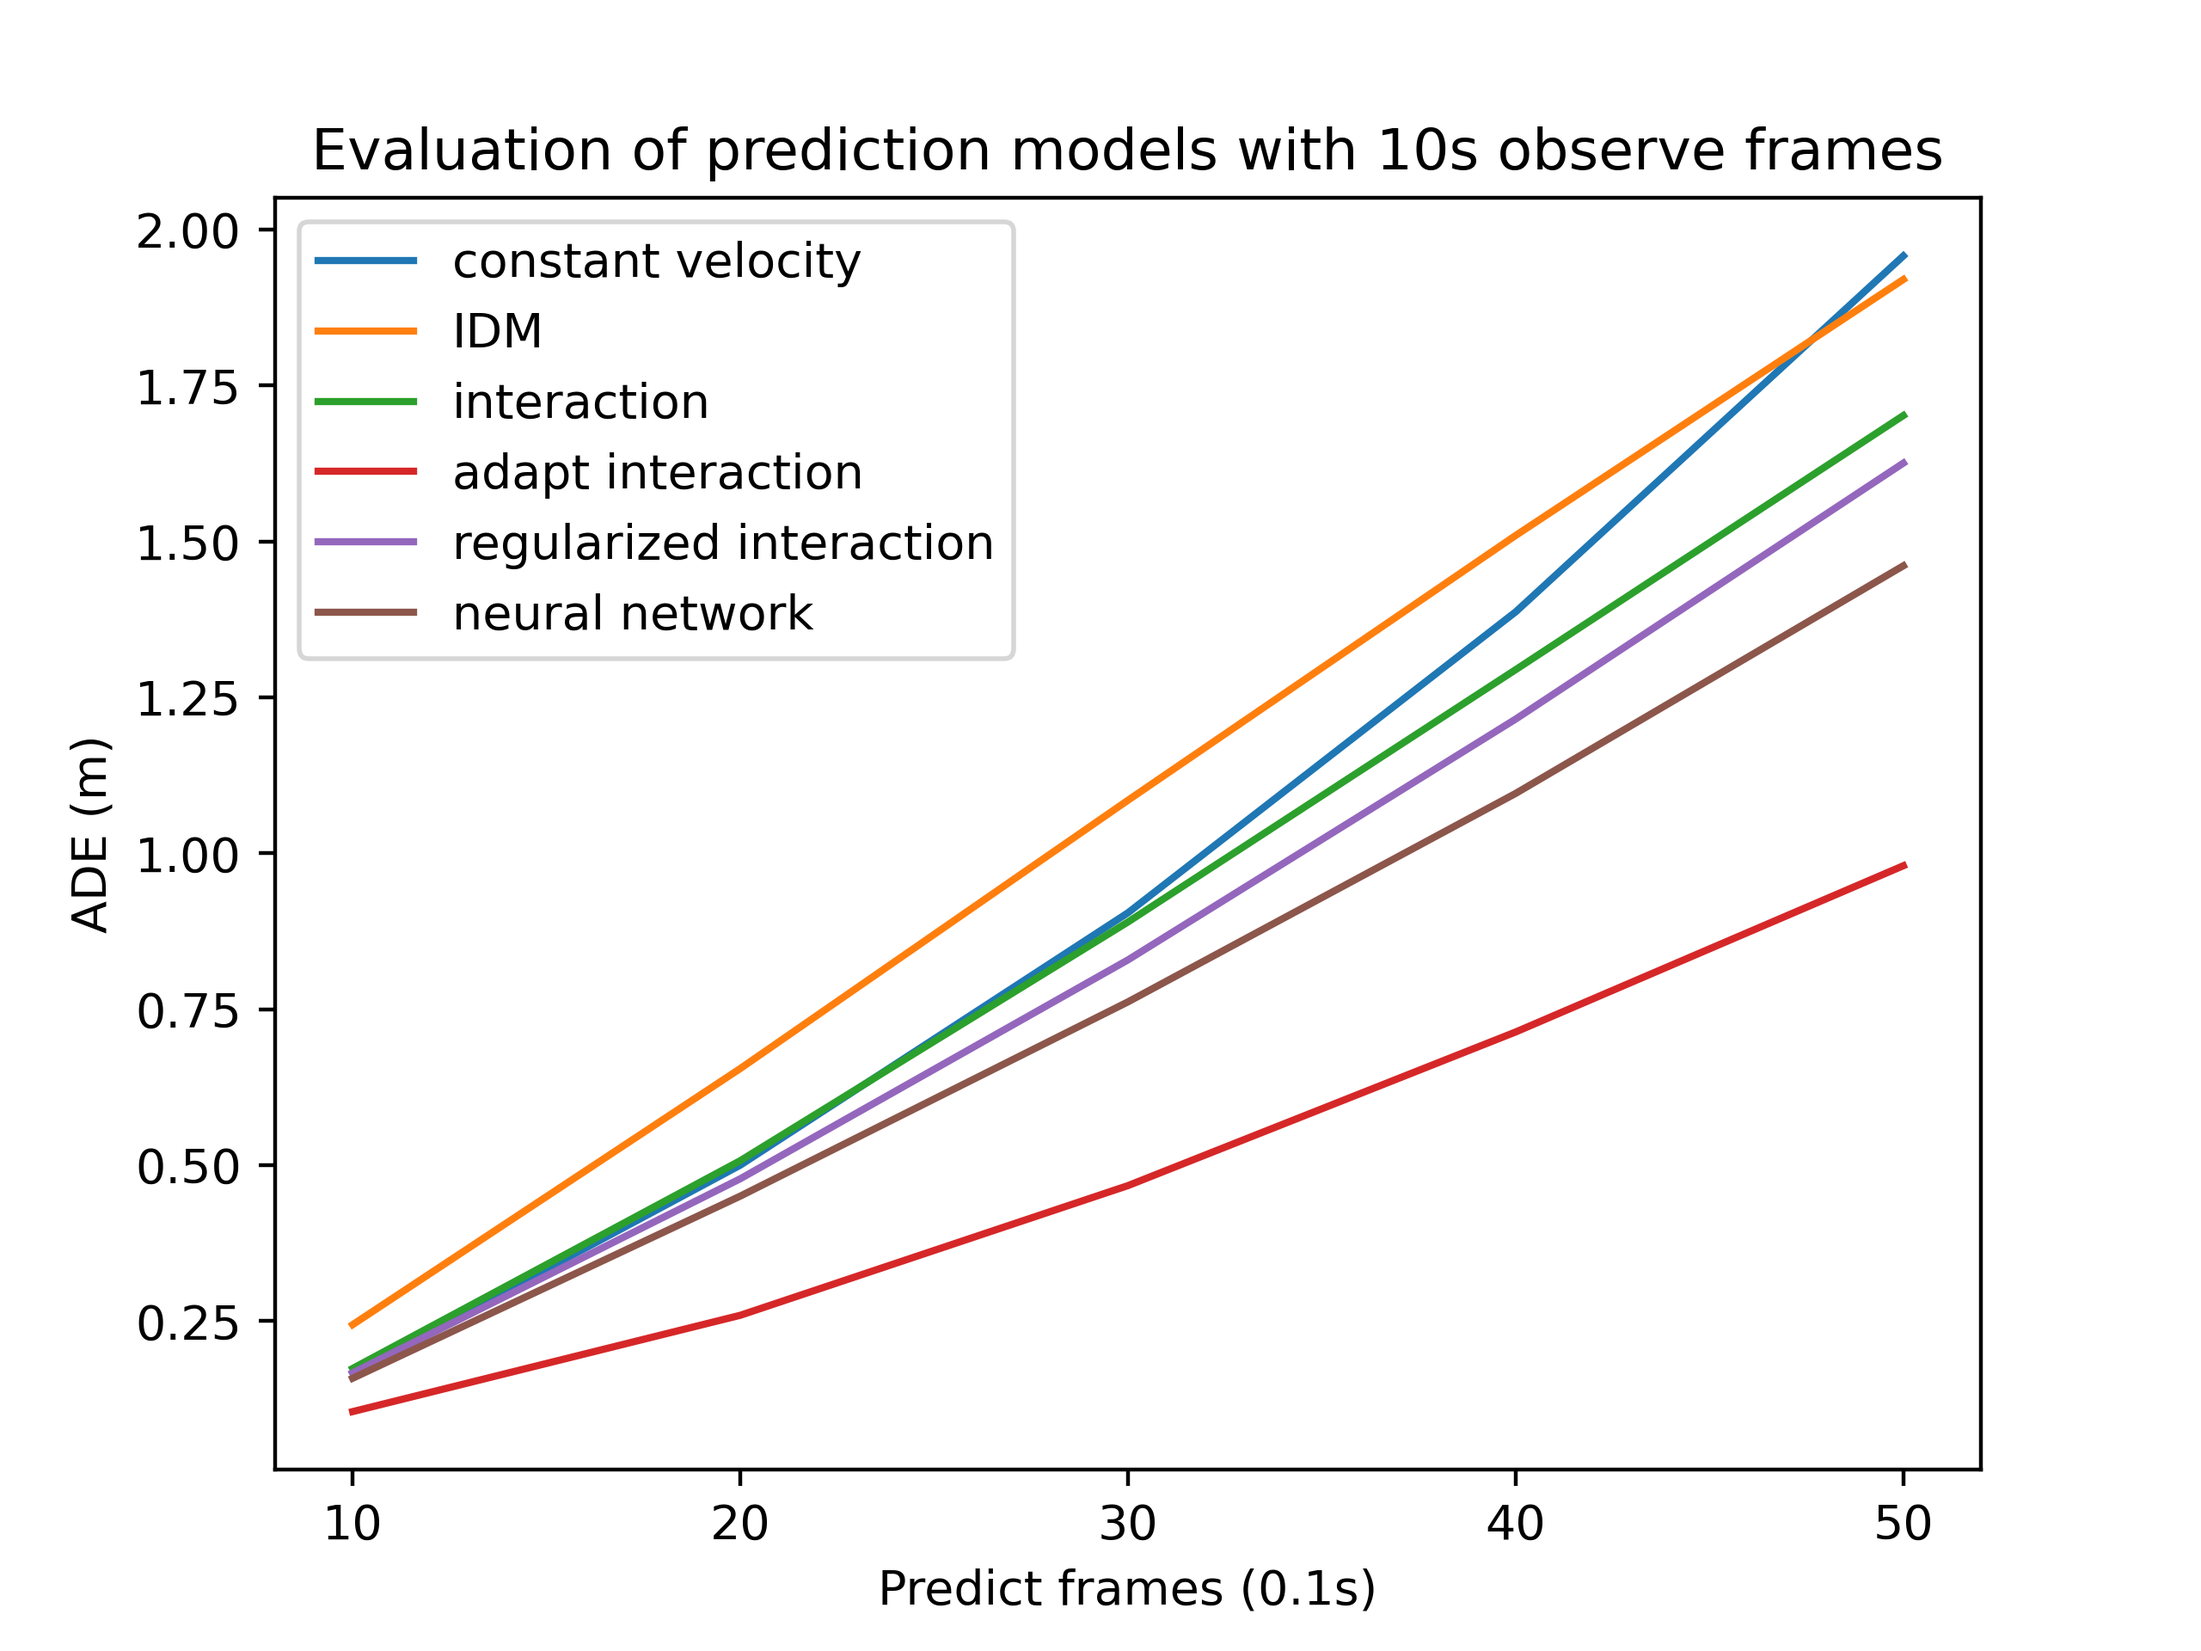
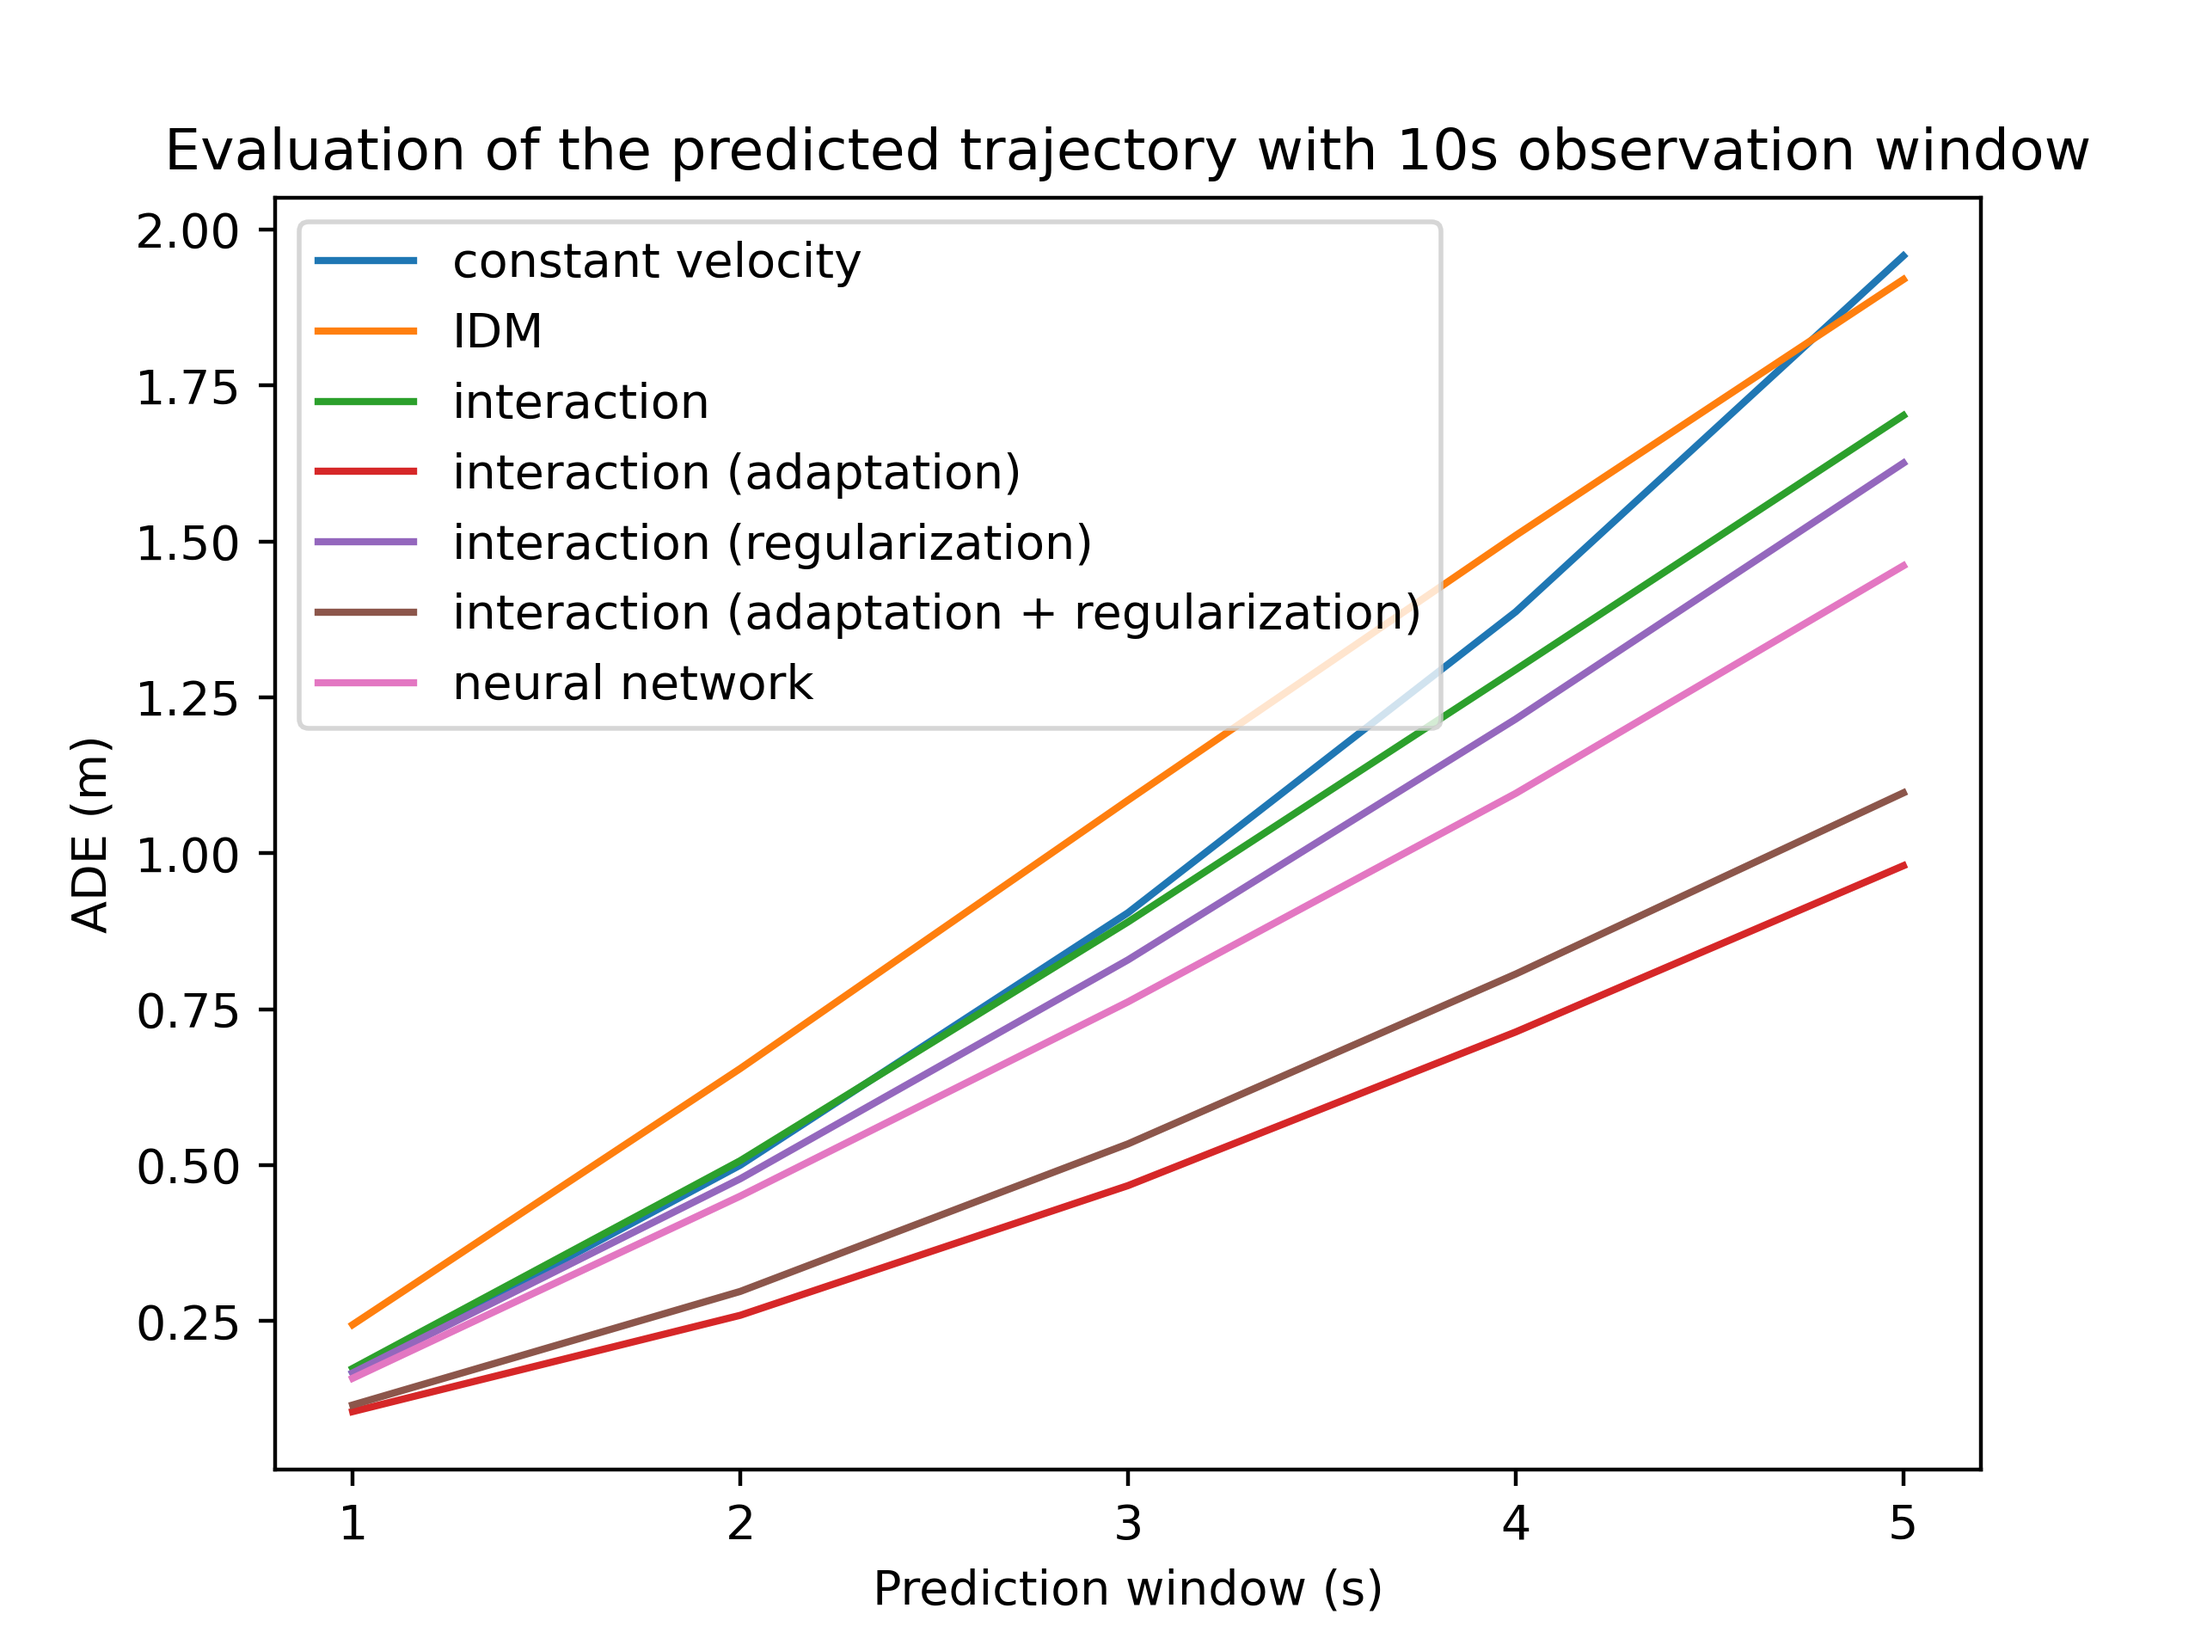
add adaptation

diff --git a/pretraj/simulate.py b/pretraj/simulate.py
@@ -11,8 +11,9 @@ models_list = [
     'constant velocity', 
     'IDM', 
     'interaction',
-    'adapt interaction',
-    'regularized interaction',
+    'interaction (adaptation)',
+    'interaction (regularization)',
+    'interaction (adaptation + regularization)',
     'neural network'
 ]
 
@@ -65,8 +66,9 @@ def simulate(
       'constant velocity': models.constant_velocity_model, 
       'IDM': models.IDM_model, 
       'interaction': models.interaction_model,
-      'adapt interaction': models.interaction_model,
-      'regularized interaction': models.regularized_interaction_model,
+      'interaction (adaptation)': models.interaction_model,
+      'interaction (regularization)': models.regularized_interaction_model,
+      'interaction (adaptation + regularization)': models.regularized_interaction_model,
       'neural network': models.neural_network}
   assert model in models_dict.keys(), f'model should be {models_dict.keys()}'
   assert observe_frames > 0 and predict_frames > 0 and \
@@ -102,19 +104,8 @@ if __name__ == '__main__':
 
   groundtruth_record = ego.space_headway_vector[observe_frames:observe_frames+predict_frames]
 
-
-  hard_braking, (ds_record, _, _) = simulate(ego, pre, observe_frames, predict_frames, 'neural network')
-  result = ADE(np.array(ds_record), np.array(groundtruth_record))
-  print('neural network:', result)
-  hard_braking, (ds_record, _, _) = simulate(ego, pre, observe_frames, predict_frames, 'adapt interaction')
-  result = metrics.ADE(np.array(ds_record), np.array(groundtruth_record))
-  print('adapt interaction:', result)
-  hard_braking, (ds_record, _, _) = simulate(ego, pre, observe_frames, predict_frames, 'interaction')
-  result = metrics.ADE(np.array(ds_record), np.array(groundtruth_record))
-  print('interaction:', result)
-  hard_braking, (ds_record, _, _) = simulate(ego, pre, observe_frames, predict_frames, 'regularized interaction')
-  result = ADE(np.array(ds_record), np.array(groundtruth_record))
-  print('regularized adapt:', result)
-  hard_braking, (ds_record, _, _) = simulate(ego, pre, observe_frames, predict_frames, 'constant velocity')
-  result = ADE(np.array(ds_record), np.array(groundtruth_record))
-  print('constantv:', result)
+  models_list = ['interaction', 'interaction (adaptation)', 'interaction (regularization)', 'interaction (adaptation + regularization)']
+  for model in models_list:
+    hard_braking, (ds_record, _, _) = simulate(ego, pre, observe_frames, predict_frames, model)
+    result = ADE(np.array(ds_record), np.array(groundtruth_record))
+    print(model, result)

diff --git a/pretraj/experiment.py b/pretraj/experiment.py
@@ -43,7 +43,7 @@ def experiment(
 def experiment_fixed_observe(draw_only=False):
   """fixed observe_frames, and change predict_frames."""
   observe_frames = 100
-  predict_frames_list = [10, 20, 30, 40, 50]
+  predict_frames_list = np.array([10, 20, 30, 40, 50])
   if not draw_only: 
     print('='*10 + 'fixed observe frames' + '='*10)
     results_list = []
@@ -65,13 +65,13 @@ def experiment_fixed_observe(draw_only=False):
       for result in results_list] for model in simulate.models_list}
 
   for model, ADE_list in ADE_dict.items():
-    plt.plot(predict_frames_list, ADE_list, label=model)
+    plt.plot(predict_frames_list*.1, ADE_list, label=model)
 
-  plt.xticks(predict_frames_list)
-  plt.xlabel('Predict frames (0.1s)')
+  plt.xticks(predict_frames_list*.1)
+  plt.xlabel('Prediction window (s)')
   plt.ylabel('ADE (m)')
   plt.legend()
-  plt.title('Evaluation of prediction models with 10s observe frames')
+  plt.title('Evaluation of the predicted trajectory with 10s observation window')
   plt.savefig(pretraj.FIXED_OBSERVE_FIG_PATH, dpi=400)
   plt.close()
 
@@ -102,13 +102,13 @@ def experiment_fixed_predict(draw_only=False):
       for result in results_list] for model in simulate.models_list}
 
   for model, ADE_list in ADE_dict.items():
-    plt.plot(observe_frames_list, ADE_list, label=model)
+    plt.plot(observe_frames_list*.1, ADE_list, label=model)
 
-  plt.xticks(observe_frames_list)
-  plt.xlabel('Observe frames (0.1s)')
+  plt.xticks(observe_frames_list*.1)
+  plt.xlabel('Observation window (s)')
   plt.ylabel('ADE (m)')
-  plt.legend()
-  plt.title('Evaluation of prediction models with 5s predict frames')
+  # plt.legend()
+  plt.title('Evaluation of the predicted trajectory with 5s prediction window.')
   plt.savefig(pretraj.FIXED_PREDICT_FIG_PATH, dpi=400)
   plt.close()
 
@@ -129,7 +129,9 @@ def experiment_runtime():
 if __name__ == '__main__':
   # if 'checkpoint' not in os.listdir('pretraj') or \
   #    'pretrain_model.pt' not in os.listdir(pretraj.CHECKPOINT_DIR):
-  models.pretrain_neural_network()
-  experiment_fixed_observe(draw_only=False)
-  # experiment_fixed_predict(draw_only=False)
+  draw_only = True
+  if not draw_only:
+    models.pretrain_neural_network()
+  experiment_fixed_observe(draw_only)
+  experiment_fixed_predict(draw_only)
   experiment_runtime()

diff --git a/pretraj/models.py b/pretraj/models.py
@@ -11,28 +11,6 @@ import pretraj
 from pretraj import vehicle
 
 
-# def cache(fn):
-#   cache_info = {}
-#   def new_fn(
-#       ego: vehicle.Vehicle, 
-#       pre: vehicle.Vehicle, 
-#       observe_frames: int, 
-#       adapt: bool,
-#       **argvs: Any
-#   ) -> Callable:
-#     # print(cache_info)
-#     key = (ego.vehicle_id, pre.vehicle_id, observe_frames, adapt)
-#     if key in cache_info:
-#       return cache_info[key]
-#     result = fn(ego=ego,
-#                 pre=pre, 
-#                 observe_frames=observe_frames, 
-#                 adapt=adapt,
-#                 **argvs)
-#     cache_info[key] = result
-#     return result
-#   return new_fn
-
 def cache(fn):
   cache_info = {}
   def new_fn(
@@ -217,7 +195,23 @@ def regularized_interaction_model(
     gt = ego_state.ds - pre.vehicle_length # pre.vehicle_length is constant
     return kv * dv + kg * (gt - g_star)
 
-  return control_law
+  lamb = .9
+  w = np.array([[kv, kg, -kg*g_star]]) # 1 * 3
+  H = 1e-4 * np.eye(3) # 3 * 3
+  ego_states = ego.states(observe_frames)
+
+  def adapt_control_law(ego_state, pre_state):
+    nonlocal w, H
+    dv = pre_state.v - ego_state.v
+    gt = ego_state.ds - pre.vehicle_length # pre.vehicle_length is constant
+    f = np.array([dv, gt, 1])[:, None] # 3 * 1
+    a = w @ f # 1 * 1
+    e = ego_states.pop(0).a - w @ f # 1 * 1
+    H = lamb * H + f @ f.T
+    w = w + e @ f.T @ np.linalg.inv(H)
+    return a[0][0]
+
+  return control_law if not adapt else adapt_control_law
   
 
 @cache
